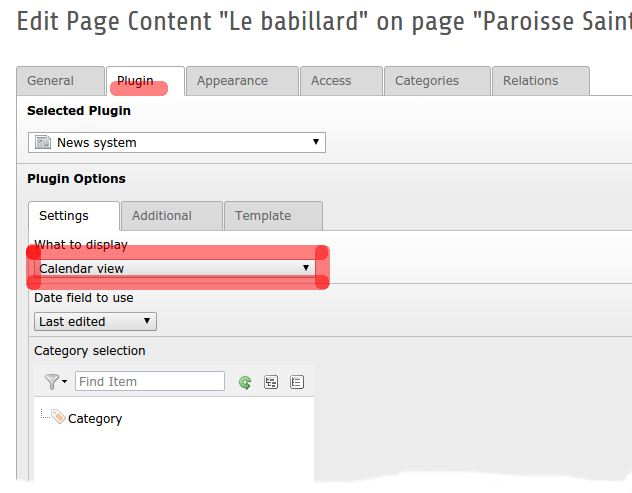
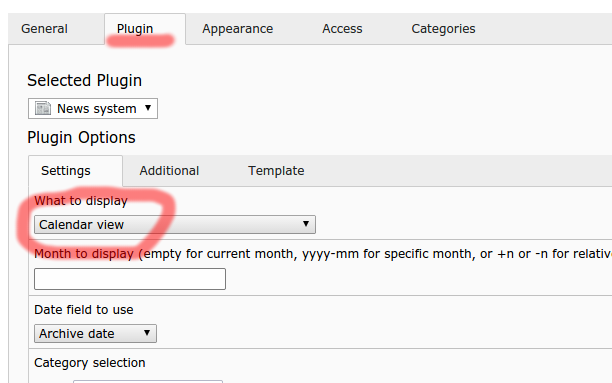
Documentation upgrade

Changed region(s): [[0.0, 0.0, 1.0, 1.0]]

diff --git a/Documentation/Administrator/Index.rst b/Documentation/Administrator/Index.rst
@@ -74,7 +74,7 @@ Customizing templates
 The easiest way to customize the template used for rendering the calendar is
 to specify an additional path in the *plugin.tx_news.view.templateRootPaths*
 array. Array item 100 is the default template path for the news_ extension,
-and array item 99 is the default template path for cb_calnews extension.
+and array item 99 is the default template path for cb_newscal extension.
 Therefore, items with index greater than 100 will replace defined paths. Under
 the news specified path, the used template should be called *Calendar.html*
 and located inside the *Newscal* folder.
@@ -96,132 +96,67 @@ The following variables are accessible from the Fluid template.
 
 settings
   The array of settings, configured in TypoScript or in the plugin flexform.
-calendars
+months
   The list of calendars to display.
-demand
-  The news demand object for the plugin.
-navigation.monthsToScroll
-  Number of months needed to scroll backward or forward when navigating through months,
-  according to *plugin.tx_news.settings.scrollMode* setting.
-navigation.numberOfMonths
-  Total number of displayed months.
-navigation.uid
-  uid of the displayed plugin content object.
+navigation
+  An array containing information for generation navigation arrows.
 
+**months** is an array. Each item of that array is an array containing
+the following variables:
 
-Each calendar in the *calendars* array contains the following variables:
-
-news
-  The list of news to display.
-demand
-  The news demand object for the current calendar.
+month
+  Month number (e.g. 1 for January, 12 for December) of the given calendar
+year
+  Year of the given calendar.
 curmonth
-  A boolean value that is TRUE if the calendar is the one specified by the demand object.
-  It is FALSE for calendars of the other months, that are before or after the current month.
-
-
-ViewHelpers
------------
-
-ViewHelpers are located under the *Cbrunet\CbNewscal\ViewHelpers* namespace.
-
-Calendar
-^^^^^^^^
-
-This ViewHelper provides an array used to iterate through weeks and days of the given month.
-
-
-.. code-block:: html
-
-   {namespace c=Cbrunet\CbNewscal\ViewHelpers}
-
-   <c:calendar newsList="{news}" year="{demand.year}" month="{demand.month}"
-               firstDayOfWeek="{settings.firstDayOfWeek}">
-
-   </c:calendar>
-
-
-Arguments
-"""""""""
-
-newsList
-  The list of news to display.
-year
-  (optional) The year to display. If not specified, the current year is used.
-month
-  (optional) The month to display. If not specified, the current month is used.
-firstDayOfWeek
-  (optional) The first day of the week (0 for Sunday, 1 for Monday; default: 0).
-
-
-Variables inside the ViewHelper
-"""""""""""""""""""""""""""""""
-
-The following variables are accessible inside the ViewHelper.
-
+  True if this month is the current month. If only one month is displayed,
+  this is always true. If more than one month is displayed, this is true
+  for the month related to the current demand.
 weeks
-  The array of the weeks. Each item is an array of the days of the week.
-weeks.*0*.ts
-  Timestamp corresponding to the day.
-weeks.*0*.day
-  Day of the month
-weeks.*0*.month
-  Month for this day (1 - 12).
-weeks.*0*.curmonth
-  True is the day belongs to the current month, false otherwise.
-weeks.*0*.curday
-  True is the day is the current day, false otherwise.
-weeks.*0*.news
-  Array of the news related to the current day.
+  The array containing the weeks of this calendar.
 
+**weeks** contains, for each week, an array of days. Each day
+is itself an array, containing:
 
-OffsetMonth
-^^^^^^^^^^^
-
-This ViewHelper allow to calculate month and year corresponding to *offset* months
-before or after the current month. 
-
-Arguments
-"""""""""
-
-year
-  Current year.
+ts
+  Timestamp of the day.
+day
+  Day of the month (1 to 31)
 month
-  Current month.
-offset
-  Number of months to offset. Positive number for months after, negative number for months before.
-  For instance, offset = 1 is the next month, and offset = -1 is the previous month.
+  Month (beause the day could belong to the previous or the next month as well).
+curmonth
+  True if the day belongs to the curently displayed month (useful for graying
+  out days of previous or next month).
+curday
+  True if the day is today.
+startev
+  True is the day indicates the start of an event. If roq_newsevent is not
+  used, this is always true.
+endev
+  True if the day indicates the end of an event. If roq_newsevent is not
+  used, this is always true.
+news
+  The array of news related to this day. Empty if no news are available
+  for this day.
 
-Variables inside the ViewHelper
-"""""""""""""""""""""""""""""""
+Each item of the **news** array are *news* (or *event*) objects. 
 
-The following variables are accessible inside the ViewHelper.
 
-month
-  Offset month.
-year
-  Offset year.
+The **navigation** array contains the following values:
 
-Example
-"""""""
-.. code-block:: html
-
-   {namespace c=Cbrunet\CbNewscal\ViewHelpers}
-
-   <c:offsetMonth month="{demand.month}" year="{demand.year}" offset="-1">
-      <f:link.action arguments="{overwriteDemand:{year: year, month: month}}"
-                     title="{f:translate(id: 'month.{month}', extensionName: 'news')} {year}"
-                     section="c{uid}">
-        Previous month
-      </f:link.action>
-   </c:offsetMonth>
-   <c:offsetMonth month="{demand.month}" year="{demand.year}" offset="1">
-      <f:link.action arguments="{overwriteDemand:{year: year, month: month}}"
-                     title="{f:translate(id: 'month.{month}', extensionName: 'news')} {year}"
-                     section="c{uid}">
-        Next month
-      </f:link.action>
-   </c:offsetMonth>
+numberOfMonths
+  Contain the number of displayed months.
+uid
+  Uid of the plugin content object. Used for anchoring to the calendar
+  when navigation through months.
+next
+  **next.month** and **next.year** contain month and year of the next
+  month to navigate to. **next** is Null if no navigation is possible
+  (because of time limit constraint).
+prev
+  **prev.month** and **prev.year** contain month and year of the previous
+  month to navigate to. **prev** is Null if no navigation is possible
+  (because of time limit constraint).
 
 
 Internationalization
@@ -231,7 +166,9 @@ Translations for this extension are stored in xlf files, just like other TYPO3 e
 However, many strings a taken directly from the news_ extension, while a few specific strings
 are stored in the cb_newscal extension.
 
-Extension is written in English, and French translations are provided. 
+Extension is written in English, and French, Catalan,
+and Castillan (Spanish) translations are provided. If you would like to provide
+other translations, please create a pull request on GitHub_.
 
 To replace default provided translations, or to provide your own translations,
 simply copy the needed files that are located in `Resources/Private/Language/`
@@ -252,3 +189,4 @@ See `Xavier Perseguers blog`_ for more details about translations in TYPO3.
 
 .. _news: http://typo3.org/extensions/repository/view/news
 .. _Xavier Perseguers blog: http://xavier.perseguers.ch/tutoriels/typo3/articles/managing-localization-files.html#c962
+.. _GitHub: https://github.com/cbrunet/typo3-cb_newscal

diff --git a/Documentation/User/Index.rst b/Documentation/User/Index.rst
@@ -17,7 +17,7 @@ Inserting Calendar plugin
 To insert a calendar in a page, insert a *News system* plugin.
 
 .. figure:: ../Images/InsertPlugin.png
-   :width: 700px
+   :width: 699px
    :alt: Insert plugin
 
    Choose *News system* plugin.
@@ -25,7 +25,7 @@ To insert a calendar in a page, insert a *News system* plugin.
 Under the *Plugin* tab, choose *Calendar view*.
 
 .. figure:: ../Images/View.png
-   :width: 632px
+   :width: 612px
    :alt: Calendar view
 
    Display Calendar view.
@@ -34,6 +34,9 @@ Most of the available options are the same than options of the news_ extension.
 Please refer to the `manual of news extension`_ for more details.
 We only detail options that are specific for the calendar:
 
+Settings tab
+^^^^^^^^^^^^
+
 Month to display
   Keep this field empty to display calendar of the current month.
   If you put a date in yyyy-aa format (e.g. 2014-01), this specific month will be displayed.
@@ -41,6 +44,23 @@ Month to display
 
 Date field to use
   This determines which date field is used for displaying news into the calendar.
+
+Time limit (LOW and HIGH)
+  Those fields can restrict what is displayed. No news will be linked to dates outside the limits.
+  Furthermore, navigation will not allow displaying months outside the limits.
+
+Additional tab
+^^^^^^^^^^^^^^
+
+Hide the pagination
+  If checked, no navigation arrows will be displayed to navigate through months.
+
+Sort "top news" before
+  It only applies to the order of news within a single day, i.e. top news will appear before
+  other news of the same day, when displaying the list of news of a given day.
+
+Template tab
+^^^^^^^^^^^^
 
 Months to display before / Months to display after
   Number of additional months to display before and after the displayed month.
@@ -59,6 +79,27 @@ next or previous month, the displayed month and year will be reflected in the pa
    the news, whether they belong to the displayed calendar or not.
 
 
+Using roq_newsevent
+-------------------
+
+If you use roq_newsevent_ extension, cb_newscal can use the event date fields. It can also display events
+that span multiple days. The only configuration you need to do, beside installing roq_newsevent_ and
+loading proper TypoScript setup, is to specify *Event dates* as the date field to use in the plugin
+configuration. This option is available only if roq_newsevent_ extension is installed.
+
+
+.. figure:: ../Images/Newsevent.png
+   :width: 510px
+   :alt: Using roq_newsevent
+
+   Using events from roq_newsevent.
+
+.. important::
+
+    At the time of writing, the compatibility of roq_newsevent with TYPO3 7.0 was not confirmed.
+    However, it works with TYPO3 6.2.
+
 
 .. _news: http://typo3.org/extensions/repository/view/news
 .. _manual of news extension: http://docs.typo3.org/typo3cms/extensions/news/latest/Main/Configuration/Plugin/Index.html
+.. _roq_newsevent: http://typo3.org/extensions/repository/view/roq_newsevent

diff --git a/Documentation/Introduction/Index.rst b/Documentation/Introduction/Index.rst
@@ -22,6 +22,10 @@ It allows to quickly access news related to the current month. Default provided 
 a small calendar for the month, with the list of news for each day as a popup. However, one could
 easily customize the template to display the calendar as he wishes. 
 
+
+Optionally, the extension can work with roq_newsevent_ extension, and display events that
+span multiple days.
+
 .. _news: http://typo3.org/extensions/repository/view/news
 
 
@@ -32,11 +36,35 @@ Screenshots
 -----------
 
 
-.. figure:: ../Images/Calendrier.png
-   :width: 400px
+.. figure:: ../Images/Calfr.png
+   :width: 261px
    :alt: Calendar for news
 
-   An example of calendar view.
+   Default calendar view.
+
+   This shows the included default template and stylesheet for the calendar. Multi-day events are
+   possible using roq_newsevent_ extension. In this example, the calendar is localized in French.
+
+
+.. figure:: ../Images/Calendrier.png
+   :width: 274px
+   :alt: Calendar for news
+
+   An real-life example of calendar view.
 
    This a a screenshot of the cb_newscal extension used on a real website (http://op-dma.com/).
-   The opened popup shows the link to a news related to December 25.
+   Stylesheet was personalized to fit appearence of the website.
+   The opened popup shows the link to a news related to November 30, 2014.
+
+
+.. _roq_newsevent: http://typo3.org/extensions/repository/view/roq_newsevent
+
+
+Upgrading
+---------
+
+.. important::
+    
+    Be aware that templates from cb_newscal 1.x are not compatible with cb_newscal 1.2. If you used
+    custom templates in a previous version of cb_newscal, you will need to upgrade them.
+    Use the provided default template as a basis for customization.

diff --git a/Documentation/ChangeLog/Index.rst b/Documentation/ChangeLog/Index.rst
@@ -12,7 +12,12 @@ ChangeLog
 =========
 
 1.2.0:
+  - Possibility to use fields from roq_newsevent_ [`issue 4`_]
+  - Honor time limit fields [`issue 5`_]
   - Fixed an incompatibility with older PHP versions (thanks to Marco Antonioli) [`issue 7`_]
+  - Unit and functional tests
+  - Refactoring of the controller
+  - Tested compatibility with news_ 3.1.0 and TYPO3 7.0
 
 1.1.1: 2015-01-21
   - Fix bug which prevent displaying two events on the same day (thanks to Carsten Hager) [`issue 6`_]
@@ -32,9 +37,13 @@ ChangeLog
 .. _issue 1: https://github.com/cbrunet/typo3-cb_newscal/issues/1
 .. _issue 2: https://github.com/cbrunet/typo3-cb_newscal/issues/2
 .. _issue 3: https://github.com/cbrunet/typo3-cb_newscal/issues/3
+.. _issue 4: https://github.com/cbrunet/typo3-cb_newscal/issues/4
+.. _issue 5: https://github.com/cbrunet/typo3-cb_newscal/issues/5
 .. _issue 6: https://github.com/cbrunet/typo3-cb_newscal/issues/6
 .. _issue 7: https://github.com/cbrunet/typo3-cb_newscal/issues/7
 
+.. _news: http://typo3.org/extensions/repository/view/news
+.. _roq_newsevent: http://typo3.org/extensions/repository/view/roq_newsevent
 
 
 Acknowledgments

diff --git a/Documentation/KnownProblems/Index.rst b/Documentation/KnownProblems/Index.rst
@@ -14,12 +14,4 @@ Known Problems
 Please report bugs, patches, or suggestions through GitHub_.
 
 
-
-To-Do list
-==========
-
-* Allow calendar to use fields from roq_newsevent_ extension.
-
-
 .. _GitHub: https://github.com/cbrunet/typo3-cb_newscal
-.. _roq_newsevent: http://typo3.org/extensions/repository/view/roq_newsevent
